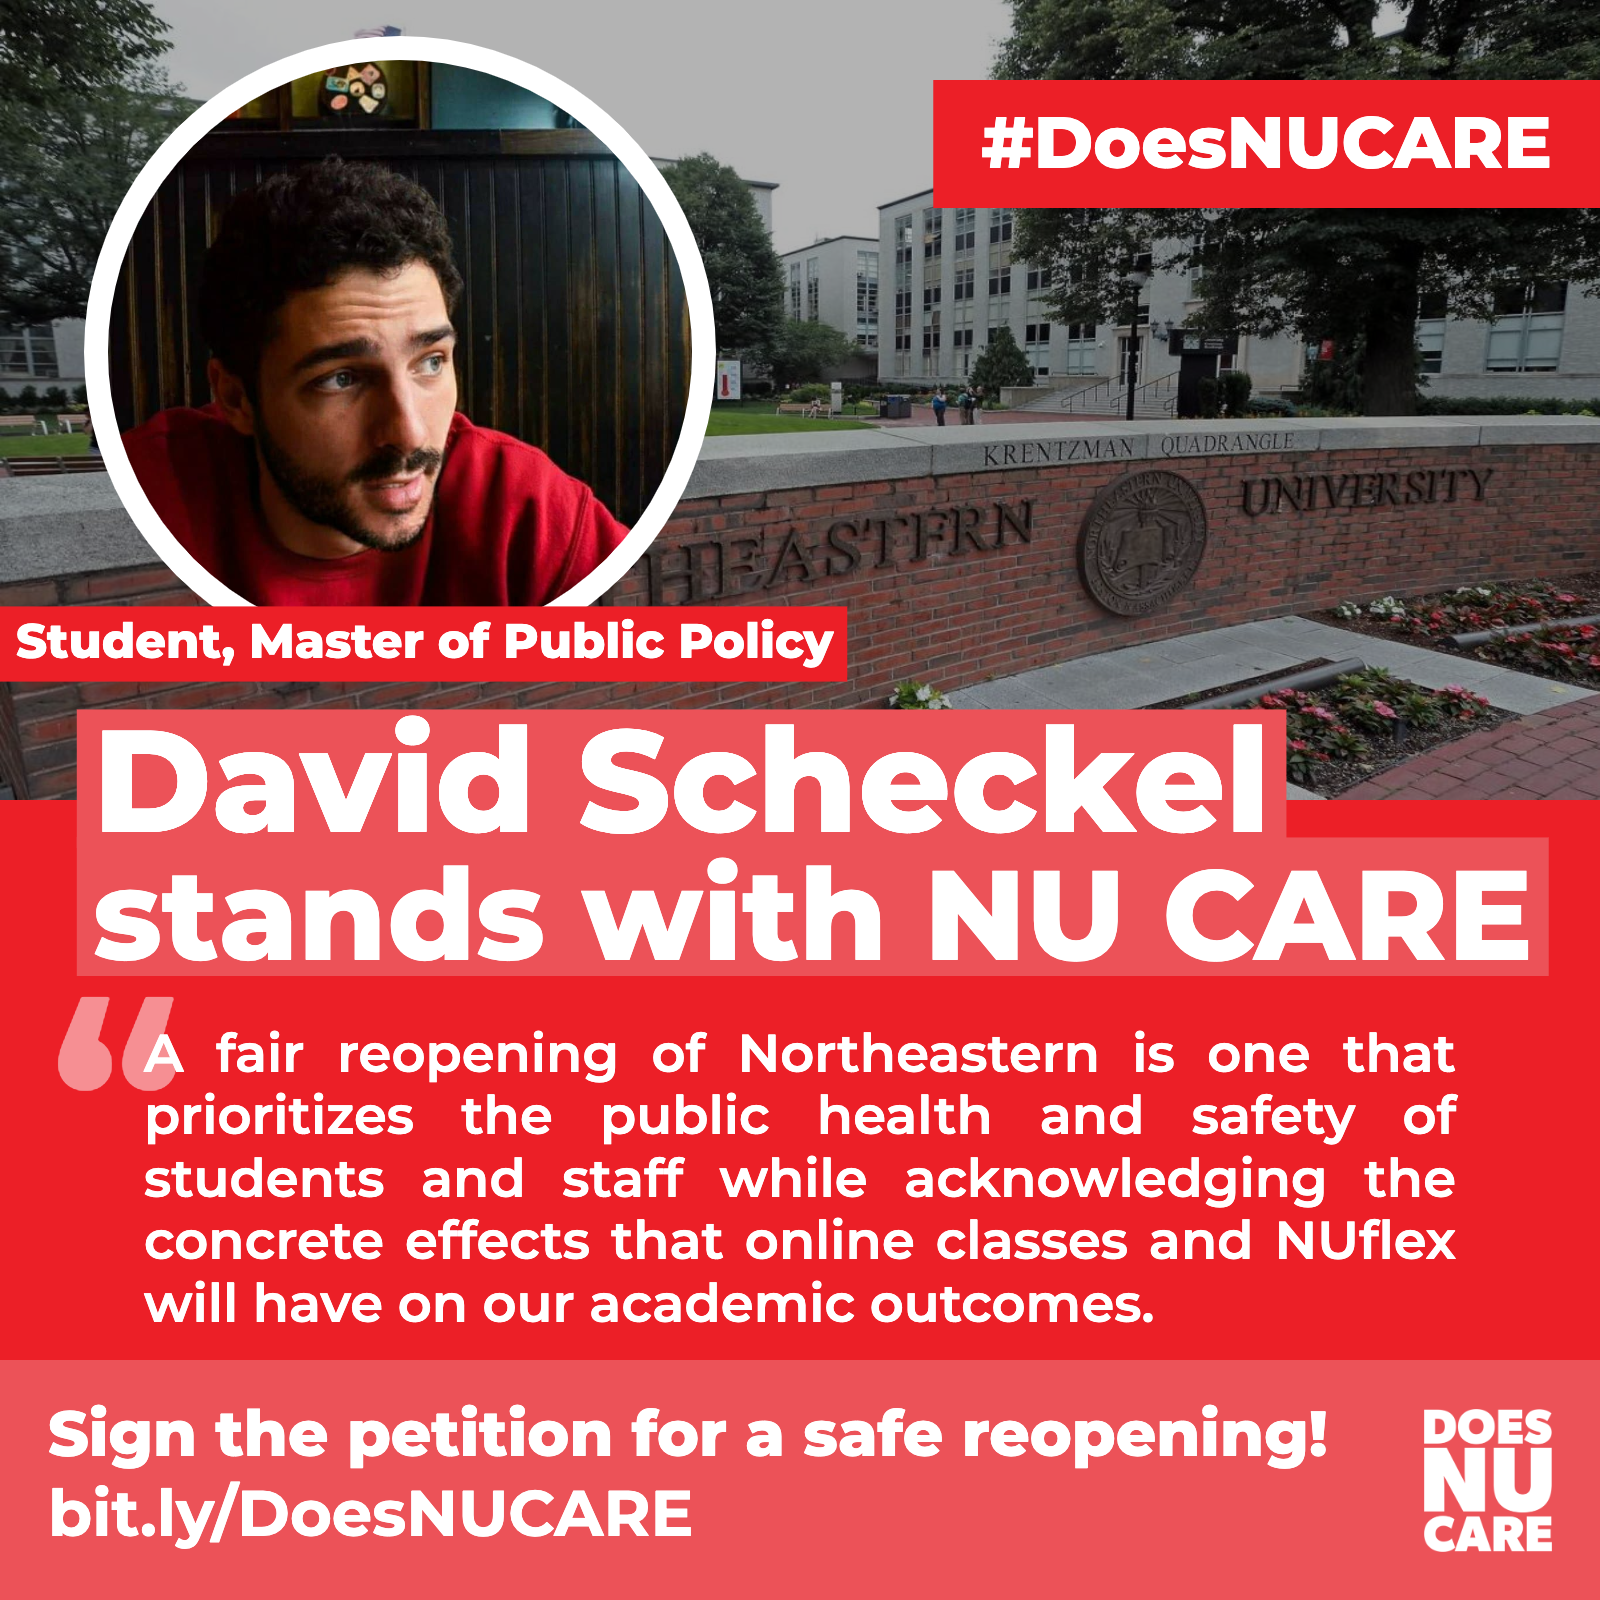
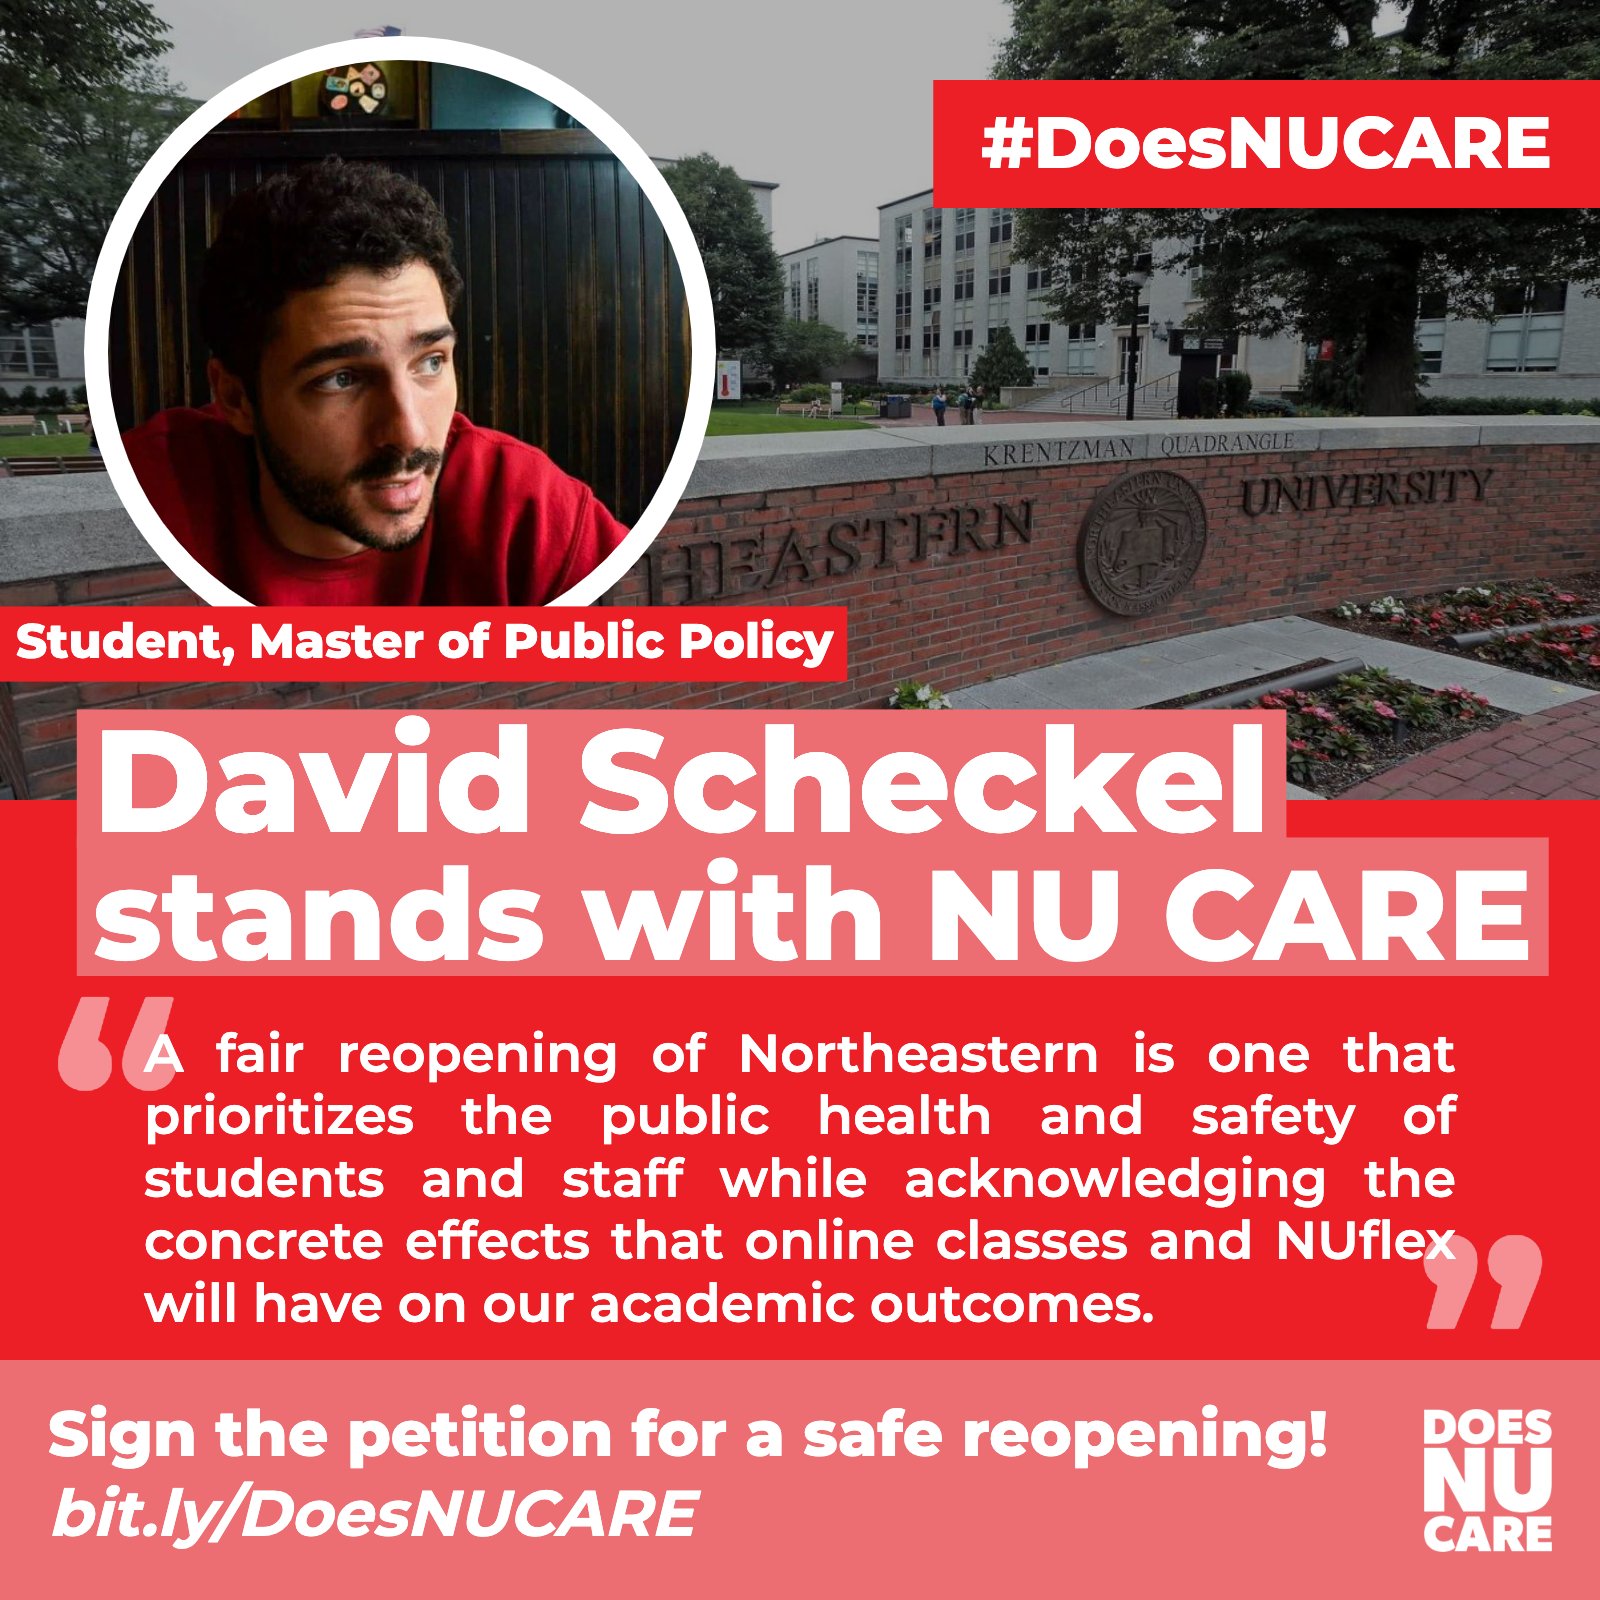
Update graphic

Changed region(s): [[0.0312, 0.4375, 0.9688, 0.625], [0.0, 0.75, 1.0, 1.0]]

diff --git a/js/main.js b/js/main.js
@@ -246,7 +246,7 @@ function imagesAreNowLoaded(){
 	var y = h*0.52;
 	textX = w*0.058
 
-	ctx.fillStyle = "#ec5258";
+	ctx.fillStyle = "#ec6e73";
 	ctx.fillRect(textX-extra, y-ascent-extra, textWidth1+extra*2, ascent+2*extra);
 
 	ctx.fillStyle = 'white';
@@ -273,7 +273,7 @@ function imagesAreNowLoaded(){
 	y2 = h*0.60
 
 
-	ctx.fillStyle = "#ec5258";
+	ctx.fillStyle = "#ec6e73";
 	ctx.fillRect(textX-extra, y2-ascent-extra, textWidth2+extra*2, ascent+2*extra);  // background of entire width - endorses + name
 
 	ctx.font = "800 " + String(fontSize) + "px Montserrat,sans-serif";
@@ -294,7 +294,7 @@ function imagesAreNowLoaded(){
 
 	// footer color
 
-	ctx.fillStyle = "#ec5258";
+	ctx.fillStyle = "#ec6e73";
 	ctx.fillRect(0, h*0.85, w, h);
 
 
@@ -327,12 +327,12 @@ function imagesAreNowLoaded(){
 	andBernieText = "bit.ly/DoesNUCARE";
 
 	fontSize = 40 * h/1000;
-	ctx.font = "700 " + String(fontSize) + "px Montserrat,sans-serif";
+	ctx.font = "700 italic " + String(fontSize) + "px Montserrat,sans-serif";
 	textWidth4 = ctx.measureText(andBernieText).width
 
 	if (textWidth4 + textX > w * 0.8) {
 		fontSize *= w*0.8/textWidth4;
-		ctx.font = "700 " + String(fontSize) + "px Montserrat,sans-serif";
+		ctx.font = "700 italic " + String(fontSize) + "px Montserrat,sans-serif";
 
 		// Recalc width based on new size
 		textWidth4 = ctx.measureText(andBernieText).width;
@@ -413,6 +413,13 @@ function imagesAreNowLoaded(){
 	ctx.font = "700 " + String(170 * h/1000) + "px Montserrat,sans-serif";
 	ctx.fillStyle = 'rgba(255, 255, 255, 0.5)';
 	ctx.fillText("“", w*0.031, h*0.75, w*0.9);
+
+	ctx.font = "700 " + String(170 * h/1000) + "px Montserrat,sans-serif";
+	ctx.fillStyle = 'rgba(255, 255, 255, 0.5)';
+	console.log(ctx.measureText("”"));
+	ctx.fillText("”", w-w*0.031-ctx.measureText("”").width, h*0.9, w*0.9);
+
+	 
 
 
 	// ----------------------------------------------------- Paragraph Text
